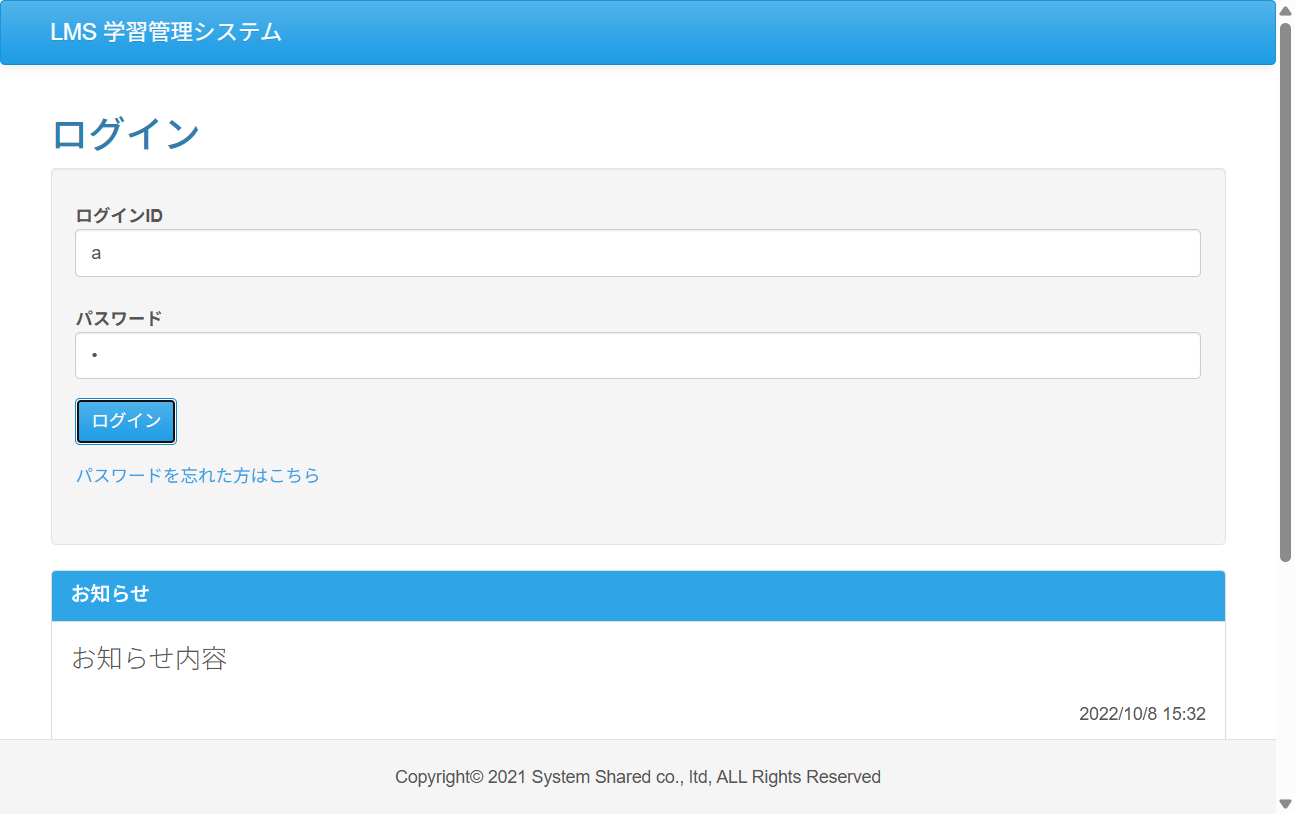
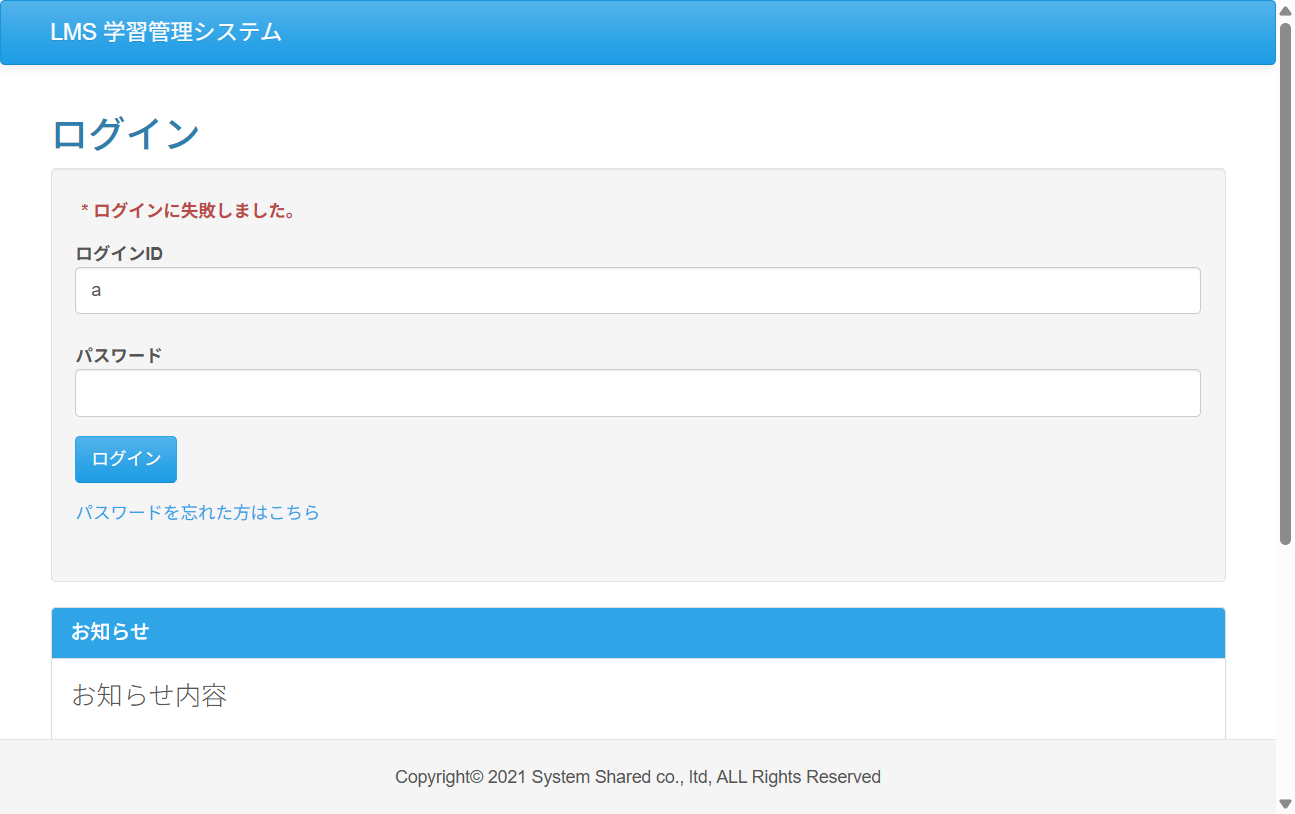
fix//Case01 Gitコメント修正 Case02 Gitコメント修正とエラーメッセージが出た時にスクリーンショットを撮るように修正

diff --git a/test_code_creation_hayashihiroko/src/test/java/jp/co/sss/lms/ct/f01_login1/Case03.java b/test_code_creation_hayashihiroko/src/test/java/jp/co/sss/lms/ct/f01_login1/Case03.java
@@ -1,6 +1,7 @@
 package jp.co.sss.lms.ct.f01_login1;
 
 import static jp.co.sss.lms.ct.util.WebDriverUtils.*;
+import static org.junit.jupiter.api.Assertions.*;
 
 import org.junit.jupiter.api.AfterAll;
 import org.junit.jupiter.api.BeforeAll;
@@ -9,6 +10,8 @@ import org.junit.jupiter.api.MethodOrderer.OrderAnnotation;
 import org.junit.jupiter.api.Order;
 import org.junit.jupiter.api.Test;
 import org.junit.jupiter.api.TestMethodOrder;
+import org.openqa.selenium.By;
+import org.openqa.selenium.WebElement;
 
 /**
  * 結合テスト ログイン機能①
@@ -35,7 +38,18 @@ public class Case03 {
 	@Order(1)
 	@DisplayName("テスト01 トップページURLでアクセス")
 	void test01() {
-		// TODO ここに追加
+		//トップページが開かれログイン画面が出ていることを確認
+
+		// トップページの画面を開く
+		goTo("http://localhost:8080/lms");
+
+		//スクリーンショットを撮影
+		getEvidence(new Object() {
+		});
+
+		//ログイン画面のタイトルを比較
+		final WebElement title = webDriver.findElement(By.xpath("//*[@id=\"main\"]/h2"));
+		assertEquals(title.getText(), "ログイン");
 	}
 
 	@Test

diff --git a/test_code_creation_hayashihiroko/src/test/java/jp/co/sss/lms/ct/f01_login1/Case02.java b/test_code_creation_hayashihiroko/src/test/java/jp/co/sss/lms/ct/f01_login1/Case02.java
@@ -49,11 +49,11 @@ public class Case02 {
 		// トップページの画面を開く
 		goTo("http://localhost:8080/lms");
 
-		//スクリーンショットを撮影
+		//トップページとログイン画面のスクリーンショットを撮影
 		getEvidence(new Object() {
 		});
 
-		//ログイン画面のタイトルを比較
+		//ログイン画面が出ているかどうかを比較、確認
 		final WebElement title = webDriver.findElement(By.xpath("//*[@id=\"main\"]/h2"));
 		assertEquals(title.getText(), "ログイン");
 	}
@@ -75,13 +75,15 @@ public class Case02 {
 		// 各画面表示時に10秒待機する(暗黙的)
 		webDriver.manage().timeouts().implicitlyWait(10, TimeUnit.SECONDS);
 
-		//スクリーンショットを撮影
-		getEvidence(new Object() {
-		});
-
+		
 		//エラーメッセージが出てるかどうか確認、比較
 		final WebElement errorMsg = webDriver.findElement(By.className("error"));
 		assertEquals(errorMsg.getText(), "* ログインに失敗しました。");
+		
+		//エラーメッセージが出ているスクリーンショットを撮影
+				getEvidence(new Object() {
+				});
+
 
 	}
 
